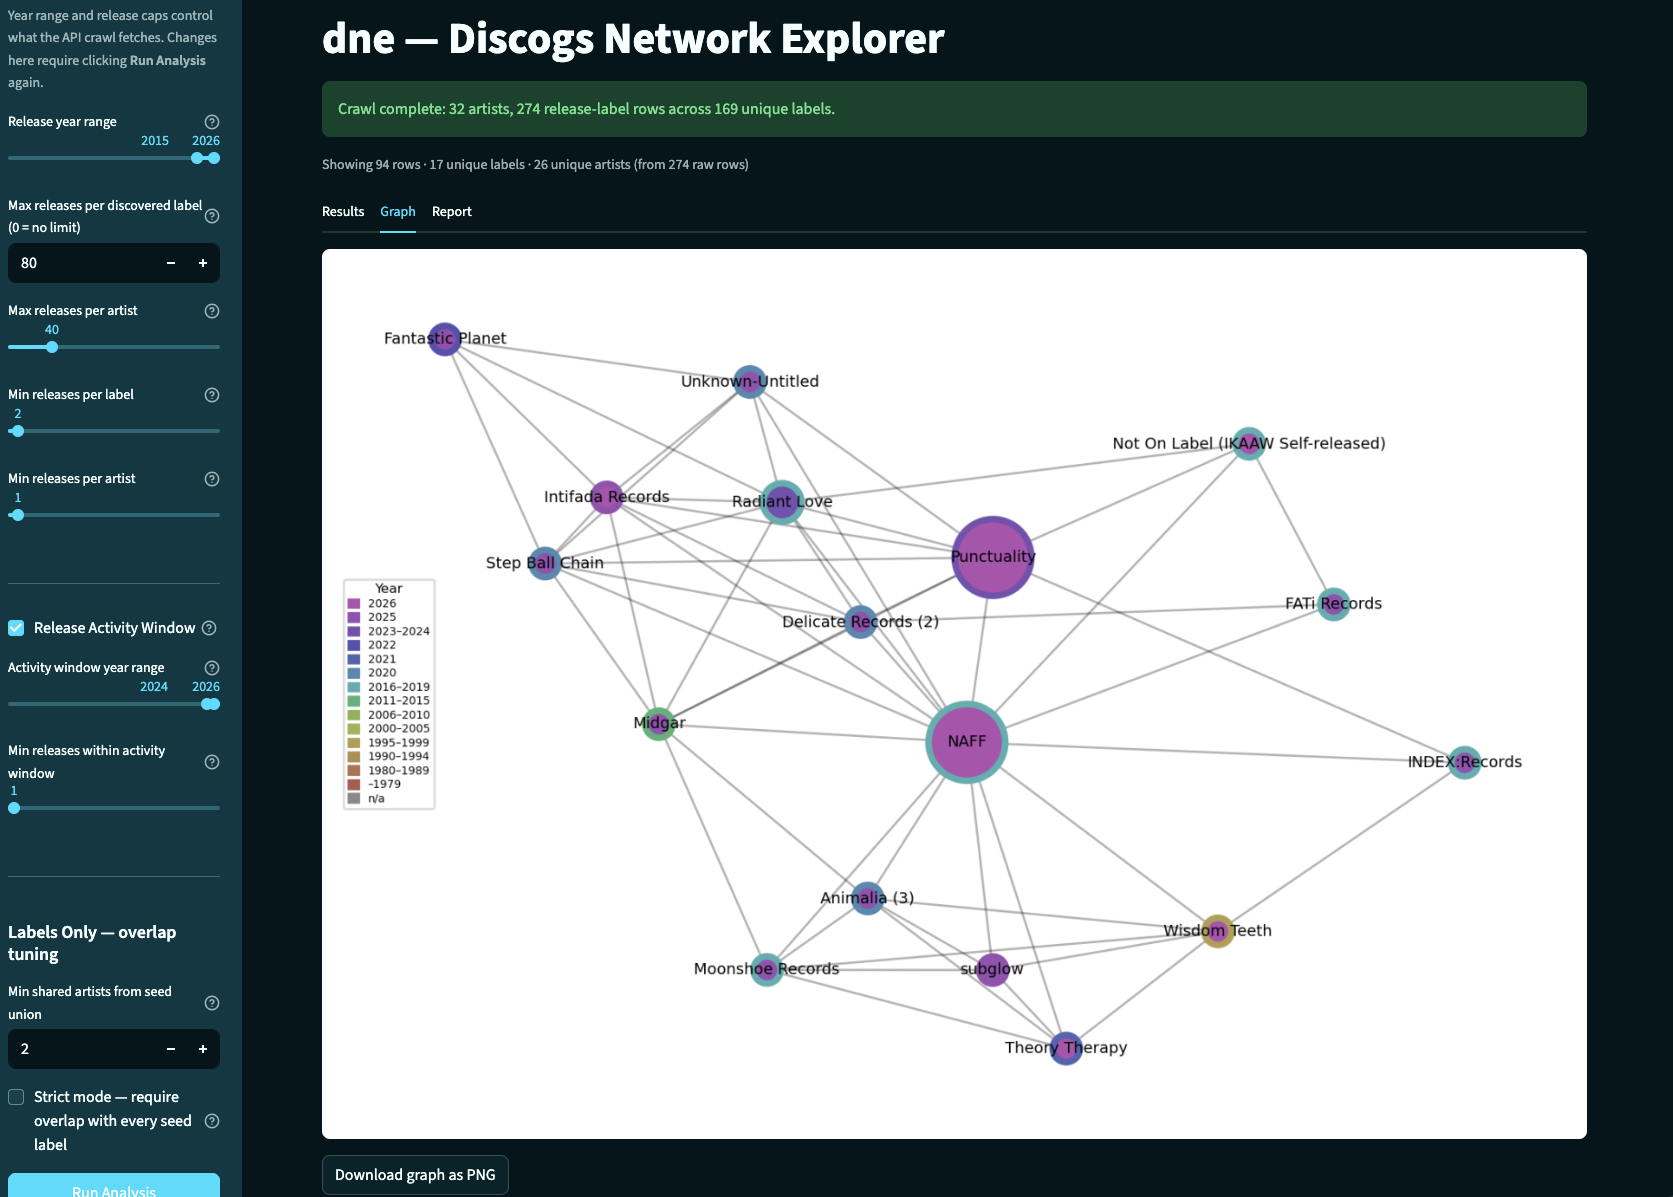
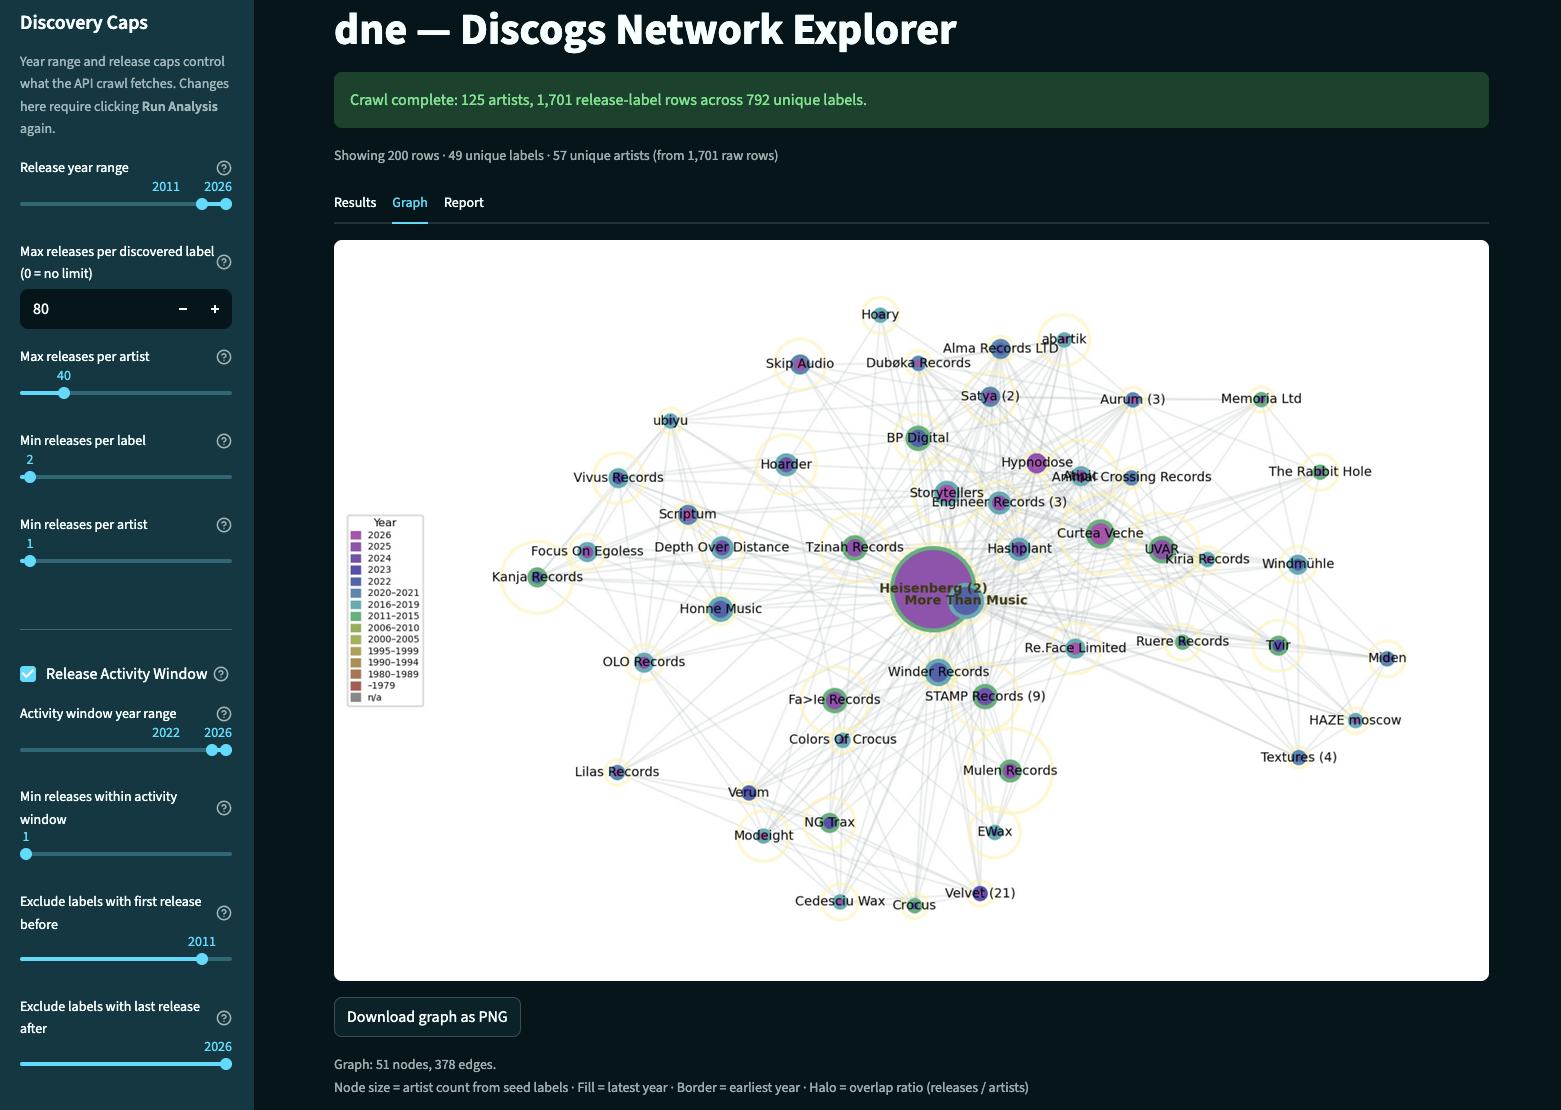
Add release links to dnx borderline/rejected tables and update app screenshot

diff --git a/src/discogs_network_explorer/app.py b/src/discogs_network_explorer/app.py
@@ -1944,6 +1944,7 @@ if "dnx_pending" in st.session_state:
             "Match Track":    b["matched_title"],
             "Artist Score":   b["artist_score"],
             "Track Score":    b["title_score"],
+            "Release":        f"https://www.discogs.com/release/{b.get('rid', '')}" if b.get("rid") else "",
         }
         for b in _pending["borderline"]
     ])
@@ -1956,6 +1957,7 @@ if "dnx_pending" in st.session_state:
             "Include":      st.column_config.CheckboxColumn("Include", default=False),
             "Artist Score": st.column_config.NumberColumn(format="%.2f"),
             "Track Score":  st.column_config.NumberColumn(format="%.2f"),
+            "Release":      st.column_config.LinkColumn("Release", display_text="view"),
         },
     )
 
@@ -1969,10 +1971,18 @@ if "dnx_pending" in st.session_state:
                     "Match Track":    r["matched_title"],
                     "Artist Score":   r["artist_score"],
                     "Track Score":    r["title_score"],
+                    "Release":        f"https://www.discogs.com/release/{r.get('rid', '')}" if r.get("rid") else "",
                 }
                 for r in _pending["rejected"]
             ])
-            st.dataframe(_rej_df, use_container_width=True, hide_index=True)
+            st.dataframe(
+                _rej_df,
+                use_container_width=True,
+                hide_index=True,
+                column_config={
+                    "Release": st.column_config.LinkColumn("Release", display_text="view"),
+                },
+            )
 
     if st.button("Confirm selections and build playlist", type="primary"):
         _vq = list(_pending["video_queue"])